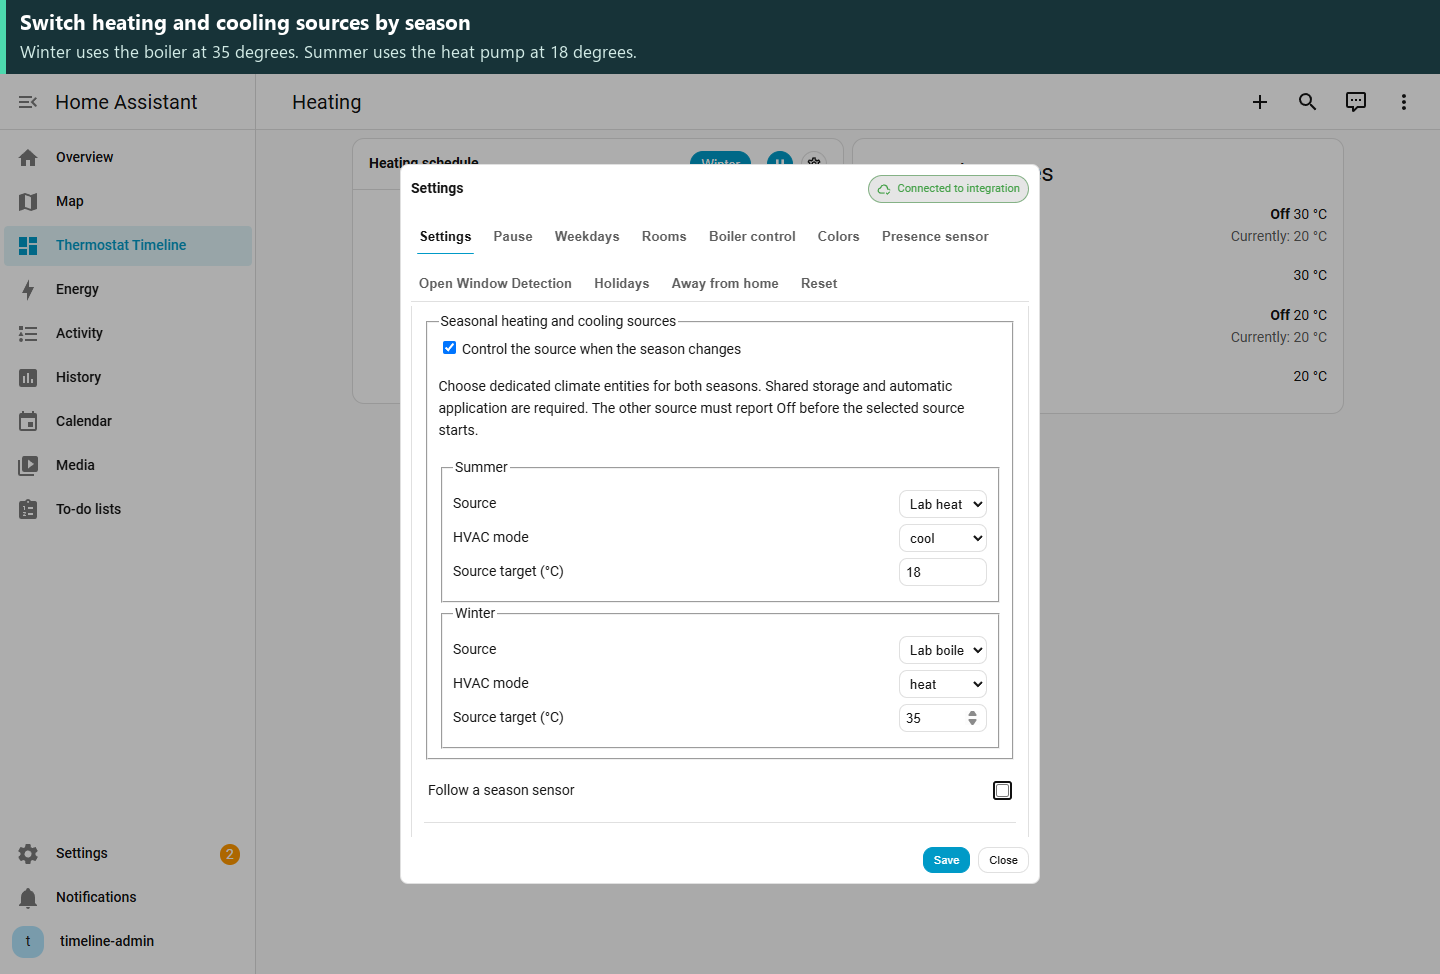
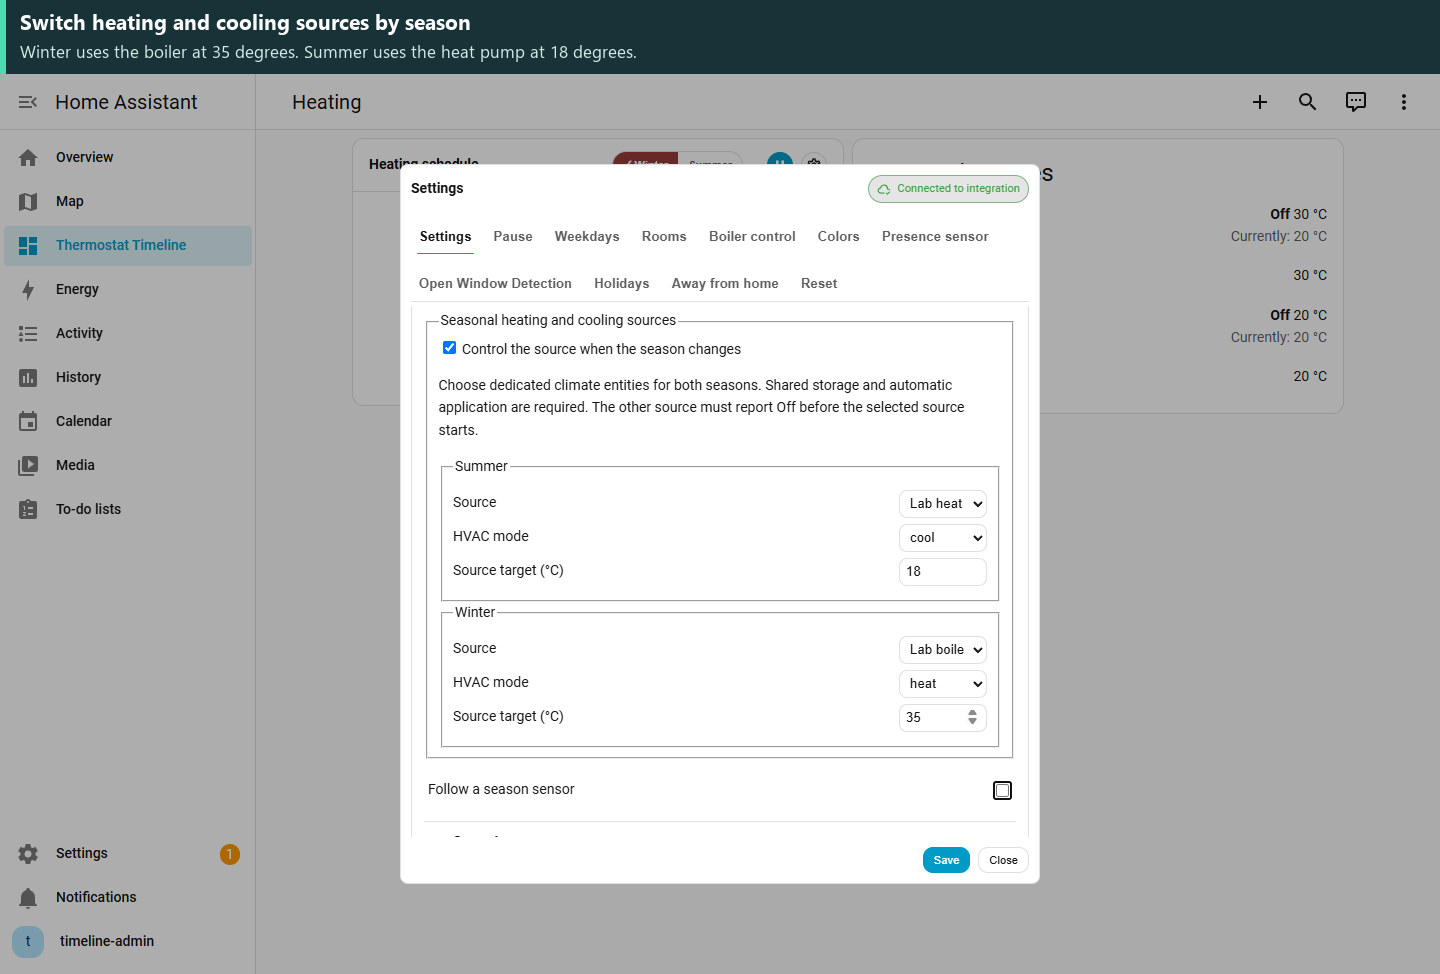
Show both seasonal plans and optionally confirm manual switches (refs #29)

diff --git a/thermostat-pro-timeline.js b/thermostat-pro-timeline.js
@@ -368,6 +368,11 @@ const TT_I18N = {
   'season.mode.title': 'Season',
   'season.mode.winter': 'Winter',
   'season.mode.summer': 'Summer',
+    'season.confirm_setting': 'Confirm manual season changes',
+    'season.question': 'Switch to {season}?',
+    'season.switch': 'Switch season',
+    'season.sensor': 'Season sensor',
+    'season.off': 'Off',
   'profiles.button': 'Profiles',
   'profiles.editor.title': 'Profiles',
   'profiles.add': 'Add profile',
@@ -770,6 +775,11 @@ const TT_I18N = {
     'season.mode.title': 'Sæson',
     'season.mode.winter': 'Vinter',
     'season.mode.summer': 'Sommer',
+    'season.confirm_setting': 'Bekræft manuelle sæsonskift',
+    'season.question': 'Skift til {season}?',
+    'season.switch': 'Skift sæson',
+    'season.sensor': 'Sæsonsensor',
+    'season.off': 'Slukket',
     'profiles.button': 'Manuelt skema',
     'profiles.editor.title': 'Skemaer',
     'profiles.add': 'Tilføj skema',
@@ -5057,6 +5067,7 @@ class ThermostatTimelineCard extends HTMLElement {
         boiler_manual_targets: !!(config.boiler_manual_targets ?? this._config?.boiler_manual_targets),
         summer_off_rooms: [...(config.summer_off_rooms ?? this._config?.summer_off_rooms ?? [])],
         holiday_trips: [...(config.holiday_trips ?? this._config?.holiday_trips ?? [])],
+        confirm_season_change: !!(config.confirm_season_change ?? this._config?.confirm_season_change),
         seasonal_sources: JSON.parse(JSON.stringify(config.seasonal_sources ?? this._config?.seasonal_sources ?? {})),
         season_follow: { ...(config.season_follow ?? this._config?.season_follow) },
         seasonal_enabled: !!(config.seasonal_enabled ?? this._config?.seasonal_enabled ?? false),
@@ -6158,7 +6169,7 @@ class ThermostatTimelineCard extends HTMLElement {
               if (Array.isArray(s.holidays_dates) && !this._yamlProvided?.holidays_dates) this._config.holidays_dates = [...s.holidays_dates];
               if (Array.isArray(s.holidays_groups)) this._config.holidays_groups = [...s.holidays_groups];
             } catch {}
-            for (const key of ['alarm_pause', 'season_follow', 'seasonal_sources', 'sensor_season_last', 'summer_off_rooms', 'holiday_trips', 'workday_plans', 'boiler_manual_targets']) {
+            for (const key of ['alarm_pause', 'season_follow', 'seasonal_sources', 'confirm_season_change', 'sensor_season_last', 'summer_off_rooms', 'holiday_trips', 'workday_plans', 'boiler_manual_targets']) {
               if (key in s) this._config[key] = s[key];
             }
             // Weekdays settings (shared)
@@ -6443,7 +6454,7 @@ class ThermostatTimelineCard extends HTMLElement {
   try { this._awayBypass = !!s.away_bypass; } catch {}
   // Open Window Detection from local storage copy
   try { if (s.open_window && typeof s.open_window==='object') this._config.open_window = { ...s.open_window }; } catch {}
-  for (const key of ['alarm_pause', 'season_follow', 'seasonal_sources', 'sensor_season_last', 'summer_off_rooms', 'holiday_trips', 'workday_plans', 'boiler_manual_targets']) {
+  for (const key of ['alarm_pause', 'season_follow', 'seasonal_sources', 'confirm_season_change', 'sensor_season_last', 'summer_off_rooms', 'holiday_trips', 'workday_plans', 'boiler_manual_targets']) {
     if (key in s) this._config[key] = s[key];
   }
   // Weekdays flags and view (persist across refresh) — skip if editor preview forbids overrides
@@ -7239,6 +7250,7 @@ class ThermostatTimelineCard extends HTMLElement {
         summer_off_rooms: [...(this._config.summer_off_rooms || [])],
         holiday_trips: [...(this._config.holiday_trips || [])],
         season_follow: { ...this._config.season_follow },
+        confirm_season_change: !!this._config.confirm_season_change,
         seasonal_sources: JSON.parse(JSON.stringify(this._config.seasonal_sources || {})),
         seasonal_enabled: !!this._config.seasonal_enabled,
         seasonal_mode: (this._config.seasonal_mode === 'summer') ? 'summer' : 'winter',
@@ -7299,6 +7311,7 @@ class ThermostatTimelineCard extends HTMLElement {
         summer_off_rooms: [...(this._config.summer_off_rooms || [])],
         holiday_trips: [...(this._config.holiday_trips || [])],
         season_follow: { ...this._config.season_follow },
+        confirm_season_change: !!this._config.confirm_season_change,
         seasonal_sources: JSON.parse(JSON.stringify(this._config.seasonal_sources || {})),
         seasonal_enabled: !!this._config.seasonal_enabled,
         seasonal_mode: (this._config.seasonal_mode === 'summer') ? 'summer' : 'winter',
@@ -7584,7 +7597,60 @@ class ThermostatTimelineCard extends HTMLElement {
       try { this._debouncedSaveStore(); } catch {}
     } catch {}
   }
-  _toggleSeasonMode(){ try { const next = (this._seasonKey() === 'summer') ? 'winter' : 'summer'; this._setSeasonMode(next); } catch {} }
+  _requestSeasonChange(target, afterChange){
+    const previous = this._seasonKey();
+    if (target === previous || !this._seasonEnabled() ||
+        (this._config.season_follow?.enabled && this._config.season_follow.entity)) return;
+    const apply = () => {
+      if (this._seasonKey() !== previous) return;
+      this._setSeasonMode(target);
+      if (this._seasonKey() === target) afterChange?.();
+    };
+    if (!this._config.confirm_season_change) { apply(); return; }
+    if (this.shadowRoot.querySelector('.season-confirm-dialog')) return;
+    const dialog = document.createElement('dialog');
+    dialog.className = 'season-confirm-dialog';
+    dialog.setAttribute('aria-labelledby', 'season-confirm-heading');
+    const heading = document.createElement('h3');
+    heading.id = 'season-confirm-heading';
+    heading.textContent = this._t('season.question').replace('{season}', this._t('season.mode.' + target));
+    dialog.append(heading);
+    const sources = this._config.seasonal_sources;
+    const plan = sources?.[target];
+    if (this._config.storage_enabled && sources?.enabled && plan?.entity) {
+      const details = document.createElement('p');
+      const name = id => this._hass?.states?.[id]?.attributes?.friendly_name || id;
+      const peer = sources[previous]?.entity;
+      const rows = [];
+      if (peer && peer !== plan.entity) rows.push(name(peer) + ' → ' + this._t('season.off'));
+      let active = name(plan.entity) + ' → ' + plan.mode;
+      if (plan.mode !== 'off' && Number.isFinite(plan.target_c)) {
+        const f = this._haIsF();
+        active += ' · ' + Number((f ? plan.target_c * 1.8 + 32 : plan.target_c).toFixed(2)) + (f ? ' °F' : ' °C');
+      }
+      rows.push(active);
+      details.textContent = rows.join('\n');
+      dialog.append(details);
+    }
+    const actions = document.createElement('form');
+    actions.method = 'dialog';
+    for (const [value,key] of [['cancel','ui.cancel'],['switch','season.switch']]) {
+      const button = document.createElement('button');
+      button.className = 'btn ' + (value === 'switch' ? 'primary' : 'ghost');
+      button.value = value;
+      button.textContent = this._t(key);
+      actions.append(button);
+    }
+    dialog.append(actions);
+    dialog.onclose = () => {
+      dialog.remove();
+      if (dialog.returnValue === 'switch') apply();
+    };
+    this.shadowRoot.append(dialog);
+    dialog.showModal();
+    actions.firstElementChild.focus();
+  }
+  _toggleSeasonMode(){ try { const next = (this._seasonKey() === 'summer') ? 'winter' : 'summer'; this._requestSeasonChange(next); } catch {} }
   _syncSeasonalRowsToBucket(){
     try {
       if (!this._seasonEnabled()) return;
@@ -8905,6 +8971,15 @@ class ThermostatTimelineCard extends HTMLElement {
   .header .sp-week-view-inline button.active{ background: var(--primary-color); color: var(--text-primary-color, #fff); }
   .header .sp-week-view-inline button:focus{ outline:none; }
   .header .sp-week-view-inline button:focus-visible{ outline:2px solid var(--primary-color); outline-offset:2px; border-radius:8px; }
+  .header .season-selector button.active[data-season="winter"]{ background:#963d39; color:white; }
+  .header .season-selector button.active[data-season="summer"]{ background:#17689b; color:white; }
+  .header .season-selector button:disabled{ cursor:default; }
+  .header .season-selector ha-icon{ --mdc-icon-size:16px; padding:0 4px; }
+  .season-confirm-dialog{ box-sizing:border-box; max-width:min(92vw,28rem); padding:20px; border:1px solid var(--divider-color); border-radius:12px; background:var(--card-background-color, white); color:var(--primary-text-color); }
+  .season-confirm-dialog::backdrop{ background:rgba(0,0,0,.45); }
+  .season-confirm-dialog h3{ margin:0 0 16px; }
+  .season-confirm-dialog p{ white-space:pre-line; line-height:1.6; }
+  .season-confirm-dialog form{ display:flex; gap:8px; justify-content:flex-end; }
   /* Default: show switch in top row (desktop), hide on weekday row */
   .weekday-full .sp-week-view-mobile{ display:none; }
   .header .pause-wrap .sp-week-view-desktop{ display:inline-flex; }
@@ -9671,6 +9746,10 @@ class ThermostatTimelineCard extends HTMLElement {
                     <ha-switch class="sp-seasonal"></ha-switch>
                   </div>
 
+                  <div class="setting season-confirm-setting">
+                    <label for="confirm-season-change"></label>
+                    <input type="checkbox" id="confirm-season-change">
+                  </div>
                   <div class="setting summer-off-setting" style="grid-template-columns:1fr">
                     <div class="title">Switch thermostats off in summer</div>
                     <div class="desc">Selected rooms stay off during the summer plan. Their previous mode is restored when summer ends.</div>
@@ -10669,18 +10748,32 @@ class ThermostatTimelineCard extends HTMLElement {
         try {
           if (this._config?.seasonal_enabled) {
             const cur = this._seasonKey();
-            const label = this._t(cur === 'summer' ? 'season.mode.summer' : 'season.mode.winter') || (cur === 'summer' ? 'Summer' : 'Winter');
-            const next = (cur === 'summer') ? 'winter' : 'summer';
-            const nextLabel = this._t(next === 'summer' ? 'season.mode.summer' : 'season.mode.winter') || (next === 'summer' ? 'Summer' : 'Winter');
-            const sb = document.createElement('button');
-            sb.className = 'profiles-btn primary season-btn';
-            sb.type = 'button';
-            sb.disabled = !!(this._config.season_follow?.enabled && this._config.season_follow.entity);
-            sb.textContent = sb.disabled ? label + ' (sensor)' : label;
-            sb.setAttribute('title', `${label} → ${nextLabel}`);
-            sb.setAttribute('aria-label', `${label} → ${nextLabel}`);
-            sb.addEventListener('click', ()=>{ try { this._setSeasonMode(next); } catch {} });
-            wrap.append(sb);
+            const automatic = !!(this._config.season_follow?.enabled && this._config.season_follow.entity);
+            const group = document.createElement('div');
+            group.className = 'sp-week-view-inline season-selector';
+            group.setAttribute('role', 'group');
+            group.setAttribute('aria-label', this._t('season.mode.title'));
+            for (const season of ['winter','summer']) {
+              const button = document.createElement('button');
+              const selected = season === cur;
+              const label = this._t('season.mode.' + season);
+              button.type = 'button';
+              button.dataset.season = season;
+              button.classList.toggle('active', selected);
+              button.textContent = (selected ? '✓ ' : '') + label;
+              button.disabled = automatic;
+              button.setAttribute('aria-pressed', String(selected));
+              button.title = automatic ? label + ' · ' + this._t('season.sensor') : label;
+              button.onclick = () => this._requestSeasonChange(season);
+              group.append(button);
+            }
+            if (automatic) {
+              const sensor = document.createElement('ha-icon');
+              sensor.setAttribute('icon','mdi:thermometer-auto');
+              sensor.title = this._t('season.sensor');
+              group.append(sensor);
+            }
+            wrap.append(group);
           }
         } catch {}
 
@@ -12307,6 +12400,7 @@ class ThermostatTimelineCard extends HTMLElement {
         summer_off_rooms: [...(cfg.summer_off_rooms || [])],
         holiday_trips: [...(cfg.holiday_trips || [])],
         season_follow: { ...cfg.season_follow },
+        confirm_season_change: !!cfg.confirm_season_change,
         seasonal_sources: JSON.parse(JSON.stringify(cfg.seasonal_sources || {})),
         seasonal_enabled: !!cfg.seasonal_enabled,
         seasonal_mode: (String(cfg.seasonal_mode || 'winter') === 'summer') ? 'summer' : 'winter',
@@ -12532,6 +12626,7 @@ class ThermostatTimelineCard extends HTMLElement {
       cfg.summer_off_rooms = [...d.summer_off_rooms];
       cfg.holiday_trips = [...d.holiday_trips];
       cfg.season_follow = { ...d.season_follow };
+      cfg.confirm_season_change = !!d.confirm_season_change;
       cfg.seasonal_sources = JSON.parse(JSON.stringify(d.seasonal_sources));
       cfg.seasonal_enabled = !!d.seasonal_enabled;
       cfg.seasonal_mode = (String(d.seasonal_mode || prevSeasonalMode || 'winter') === 'summer') ? 'summer' : 'winter';
@@ -16653,6 +16748,12 @@ class ThermostatTimelineCard extends HTMLElement {
 
   _bindSummerRooms(draft){
     this._bindSeasonalSources(draft);
+    const confirmation = this.shadowRoot.querySelector('.season-confirm-setting');
+    confirmation.style.display = draft.seasonal_enabled ? '' : 'none';
+    confirmation.querySelector('label').textContent = this._t('season.confirm_setting');
+    const checkbox = confirmation.querySelector('input');
+    checkbox.checked = !!draft.confirm_season_change;
+    checkbox.onchange = () => { draft.confirm_season_change = checkbox.checked; };
     const section = this.shadowRoot.querySelector('.overlay-settings .summer-off-setting');
     section.style.display = draft.seasonal_enabled ? '' : 'none';
     const list = section.querySelector('.summer-off-list');
@@ -16852,6 +16953,7 @@ class ThermostatTimelineCard extends HTMLElement {
       if (JSON.stringify(d.summer_off_rooms) !== JSON.stringify(c.summer_off_rooms || [])) return true;
       if (JSON.stringify(d.holiday_trips) !== JSON.stringify(c.holiday_trips || [])) return true;
       if (JSON.stringify(d.seasonal_sources) !== JSON.stringify(c.seasonal_sources || {})) return true;
+      if (!!d.confirm_season_change !== !!c.confirm_season_change) return true;
       if (JSON.stringify(d.season_follow) !== JSON.stringify(c.season_follow || {})) return true;
       if (!!d.seasonal_enabled !== !!c.seasonal_enabled) return true;
       if (String(d.seasonal_mode||'winter') !== String(c.seasonal_mode||'winter')) return true;
@@ -18080,8 +18182,8 @@ class ThermostatTimelineCard extends HTMLElement {
             seasonSel.onchange = ()=>{
               try {
                 const next = (seasonSel.value === 'summer') ? 'summer' : 'winter';
-                this._setSeasonMode(next);
-                this._renderWeeklyModal();
+                seasonSel.value = this._seasonKey();
+                this._requestSeasonChange(next, () => this._renderWeeklyModal());
               } catch {}
             };
           }
@@ -19031,9 +19133,11 @@ class ThermostatTimelineCard extends HTMLElement {
           seasonSel.onchange = ()=>{
             try {
               const next = (seasonSel.value === 'summer') ? 'summer' : 'winter';
-              this._setSeasonMode(next);
-              buildPresenceDraft(this._presenceCombo);
-              this._renderPresenceModal();
+              seasonSel.value = this._seasonKey();
+              this._requestSeasonChange(next, () => {
+                buildPresenceDraft(this._presenceCombo);
+                this._renderPresenceModal();
+              });
             } catch {}
           };
         }

diff --git a/docs/card/features/seasonal.md b/docs/card/features/seasonal.md
@@ -30,11 +30,28 @@ Select Summer and save a short morning block. Here Summer calls for 19 degrees f
 
 [Play walkthrough](../../images/season.gif) | [Full-size GIF](../../images/season.gif)
 
+## Confirm a manual season change
+
+The card shows **Winter** and **Summer** side by side. A checkmark marks the active plan. By default, choosing the other season switches immediately.
+
+1. Open the card settings and enable **summer/winter schedules**.
+2. On the same tab, turn on **Confirm manual season changes** and save.
+3. On the card, select the other season. If seasonal sources are configured with shared storage, the dialog lists the source modes and any target temperature for the new season.
+4. Choose **Switch season** to apply the plan. Choose **Cancel** or press **Escape** to keep the current season and equipment settings.
+
+[![Review the boiler and heat pump modes before switching](../../images/season-confirm-dialog.png)](../../images/season-confirm.gif)
+
+[Play walkthrough](../../images/season-confirm.gif) | [Full-size GIF](../../images/season-confirm.gif)
+
+The example starts with the boiler heating in Winter. The first switch is cancelled. The second is confirmed, and Summer takes over with the heat pump cooling at 18 °C. Automatic season changes from a sensor continue without a prompt.
+
+[![Summer selected after confirming the source change](../../images/season-confirm-result.png)](../../images/season-confirm.gif)
+
 ## Follow a season sensor
 
 Open **Settings** and enable **summer/winter schedules**. Turn on **Follow a season sensor** and select the Home Assistant sensor that reports `spring`, `summer`, `autumn` and `winter`. Choose a schedule for spring and autumn independently and save.
 
-Summer selects your summer plan and winter selects your winter plan. For example, mapping spring to Summer lets the office switch from its winter target of 21 °C to its summer target of 17 °C when spring begins. The season button shows the active plan. With shared storage and automatic temperature control enabled, the integration applies the change even with the dashboard closed.
+Summer selects your summer plan and winter selects your winter plan. For example, mapping spring to Summer lets the office switch from its winter target of 21 °C to its summer target of 17 °C when spring begins. The selector marks the active plan with a checkmark. Its two buttons are disabled while the sensor controls the season. With shared storage and automatic temperature control enabled, the integration applies the change even with the dashboard closed.
 
 An unavailable sensor keeps the last known plan. Until the first valid reading, the manual season is used. Disable **Follow a season sensor** and save to use the manual selector again.
 
@@ -62,7 +79,7 @@ Use this option when the winter plan needs a boiler and the summer plan needs a 
 2. Under the seasonal settings, enable **Control the source when the season changes**.
 3. For **Summer** and **Winter**, choose a dedicated climate entity and one of its supported modes. Choose **off** for a season when neither source should run. A reversible unit can be selected for both seasons. Thermostats already assigned to rooms or merged with a room are reserved for room control.
 4. Optionally enter a source target for either season. Leave the field empty to keep the device's existing target. The field appears for devices that support setting a single target temperature.
-5. Save. The active season takes effect immediately. Use the season button on the card to switch, or enable **Follow a season sensor** to switch automatically.
+5. Save. The active season takes effect immediately. Select **Winter** or **Summer** on the card to switch, or enable **Follow a season sensor** to switch automatically.
 
 [![Seasonal settings with a heat pump for summer and a boiler for winter](../../images/seasonal-sources-setup.png)](../../images/seasonal-sources.gif)
 

diff --git a/docs/card/features/index.md b/docs/card/features/index.md
@@ -242,6 +242,14 @@ Choose what you want your heating to do. Open a guide for the setup steps and th
 
     [Play walkthrough](../../images/holiday-range.gif) | [Full-size GIF](../../images/holiday-range.gif)
 
+-   **[Confirm a manual season change](seasonal.md#confirm-a-manual-season-change)**
+
+    Review the seasonal sources, keep the current plan or confirm the switch.
+
+    [![Review a switch from Winter to Summer](../../images/season-confirm-dialog.png)](../../images/season-confirm.gif)
+
+    [Play walkthrough](../../images/season-confirm.gif) | [Full-size GIF](../../images/season-confirm.gif)
+
 -   **[Follow a season sensor](seasonal.md#follow-a-season-sensor)**
 
     Choose which schedule to use in spring and autumn.
